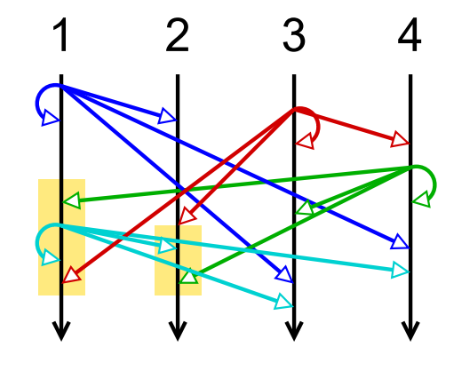
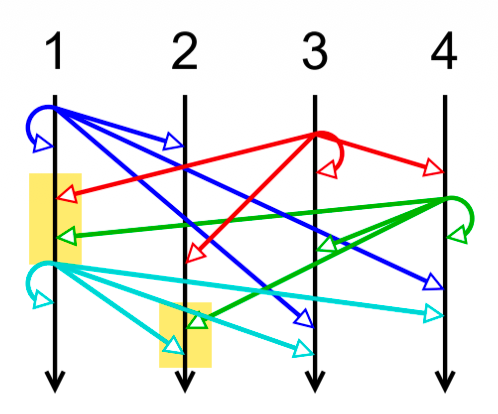
Dist 06

diff --git a/VorlesungsNotizen/VerteilteSysteme/00 Einführung.md b/VorlesungsNotizen/VerteilteSysteme/00 Einführung.md
@@ -4,3 +4,12 @@ Keine Hilfsmittel (?)
 
 ## Nicht Relevant
 [Verteilte Dateisysteme](08%20Fehlertoleranz.md#Verteilte%20Dateisysteme) und [Verteilter Shared Memory](08%20Fehlertoleranz.md#Verteilter%20Shared%20Memory)
+
+# Fragen
+## Verteilter Algorithmus für Mutexe
+Im [Beispiel (Skript Seite 374)](06%20Verteilte%20Mutexe.md#Verteilter%20Algorithmus) werden die Zeitstempel $8,1$ und $12,3$ verwendet.
+Sind das jeweils eine Zahl oder jeweils zwei, ähnlich einer [Vektor Uhr](05%20Logische%20Uhren.md#Vektor%20Uhren)?
+
+Eine einzelne Zahl ist zum Rechnen deutlich simpler, wie wird das in echten Systemen verwaltet wenn keine eindeutige Zeit gegeben ist?
+Verschiedene Vektorzeitstempel sind auch nur manchmal in totaler Ordnung.
+

diff --git a/VorlesungsNotizen/VerteilteSysteme/06 Verteilte Mutexe.md b/VorlesungsNotizen/VerteilteSysteme/06 Verteilte Mutexe.md
@@ -62,7 +62,7 @@ Der Ausfall eines Knoten mit Token muss erkannt werden um ein neues Token einzuf
 
 # Multicast
 Wie kann man den Empfang von Nachrichten in der korrekten Reihenfolge erreichen?
-Wie kann man den Erhalt bei allen Empfängern zu sichern?
+Wie kann man den Erhalt bei allen Empfängern sichern?
 
 - Unreliable Multicast
   Pakete können verloren gehen, keine Garantie oder automatische Wiederholung.
@@ -96,7 +96,7 @@ Alle Nachrichten werden bei allen Prozessen in exakt der selben Reihenfolge empf
 > Um global eindeutige Sequenznummern zu erhalten, muss ein erheblicher Aufwand betrieben werden.
 > Hier kann wie bei [Verteilte Mutexen](#Verteilte%20Mutexe) auf zentrale Vergabe oder verteilte Algorithmen gesetzt werden.
 
-# Tansaktionen in verteilten Systemen
+# Transaktionen in verteilten Systemen
 Werden nicht nur in Datenbanken eingesetzt, auch bei verteilten Diensten wie Reservierungs- und Koordinationsprotokollen.
 Wie können die [ACID](Transaktionen.md#ACID) Prinzipien eingehalten werden?
 